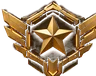
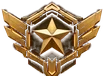
순위 메달 복원: 잘린 날개를 대칭으로 복원(금·은), 동메달은 금메달 형태에 동 색 적용, 세 메달 크기·중심 통일, 순위표 메달 크기 조정
Claude-Session: https://claude.ai/code/session_01ALtPsWm2GJE9JgffBcLySz

diff --git a/head2.html b/head2.html
@@ -617,14 +617,14 @@ body.versus #hpRow,body.tut #hpRow{display:none}
 .lbr::before{content:"";position:absolute;left:0;top:0;bottom:0;width:3px;background:rgba(255,178,26,.35)}
 .lbCols>span,.lbr>span{overflow:hidden;text-overflow:ellipsis;white-space:nowrap;text-align:left}
 .lbr .r{font:700 15px var(--f-mono);color:#a9a397;text-align:center;display:flex;align-items:center;justify-content:center;height:100%}
-.lbr .medal{display:block;width:28px;height:28px;object-fit:contain;filter:drop-shadow(0 2px 4px rgba(0,0,0,.6))}
+#miniBoard .lbr .medal{display:block;width:32px;height:25px;object-fit:contain;filter:drop-shadow(0 2px 4px rgba(0,0,0,.6))}
 .lbr .nm{font-weight:700;color:var(--bone)}
 .lbr .dp{font-size:14px;color:#9d978b}
 .lbr .sc{font:700 17px var(--f-mono);color:var(--bone);text-align:right}
 /* top 3: framed plates (radio frame: rank sits in the square slot) */
 .lbr.p1,.lbr.p2,.lbr.p3{clip-path:none;background:none;border-style:solid;border-width:0;border-image:url(ui/radio.webp) 40 40 40 190 fill / 7px 8px 7px 46px stretch}
 .lbr.p1::before,.lbr.p2::before,.lbr.p3::before{display:none}
-.lbr.p1{filter:drop-shadow(0 0 10px rgba(255,170,40,.35))}
+.lbr.p1{filter:drop-shadow(0 0 10px rgba(255,170,40,.35))}.lbr.p2{filter:drop-shadow(0 0 8px rgba(200,220,240,.22))}.lbr.p3{filter:drop-shadow(0 0 8px rgba(230,140,80,.25))}
 .lbr.p1 .sc{color:var(--amber);text-shadow:0 0 10px rgba(255,178,26,.5)}.lbr.p1 .nm{color:#fff}
 .lbr.p2 .sc,.lbr.p3 .sc{color:#ffd48a}
 .lbr.me{box-shadow:inset 0 0 0 1px rgba(127,224,255,.55)}.lbr.me::before{background:#7fe0ff}
